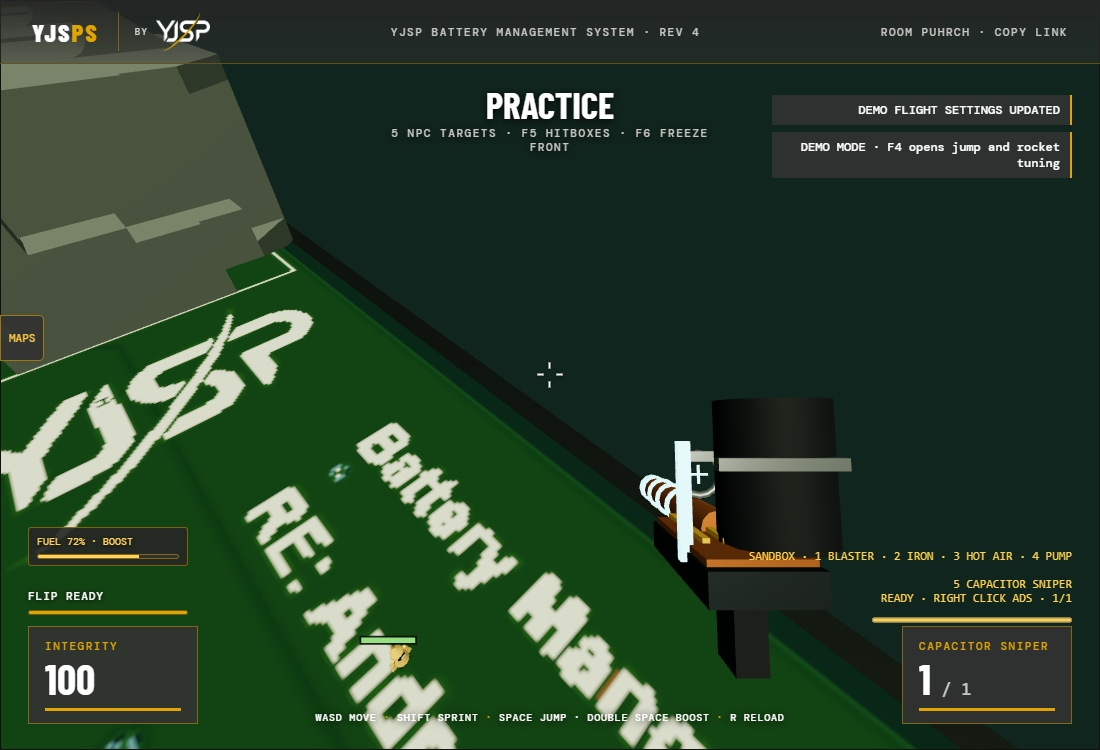
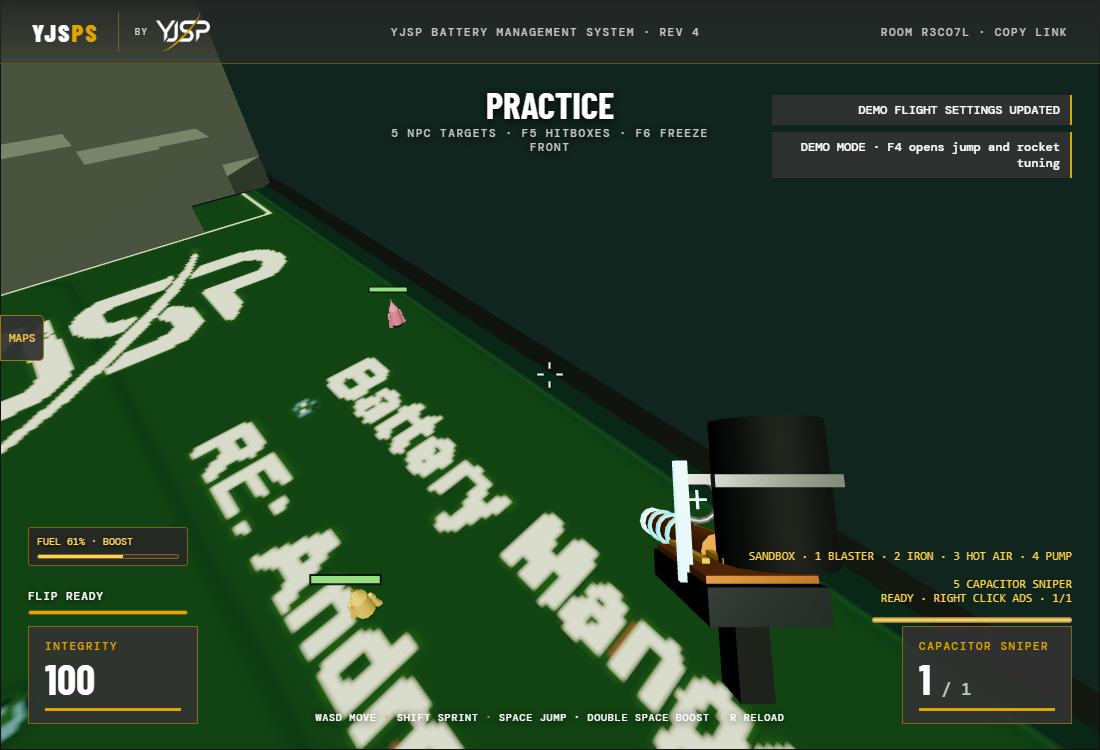
Use approved rocket flight tuning as branch defaults

diff --git a/tests/jetpack-server.test.ts b/tests/jetpack-server.test.ts
@@ -15,7 +15,7 @@ it('synchronizes two flying players, ignores forged fuel, permits combat, and fa
     const a=await client.create<MatchState>('pcb',options);rooms.push(a);a.onMessage('*',()=>{});
     const b=await client.joinById<MatchState>(a.roomId,options);rooms.push(b);b.onMessage('*',()=>{});
     await wait(()=>a.state.phase==='playing' && b.state.players?.size===2);
-    a.send('dev:flight',{...JETPACK,boostSeconds:12});await delay(100);expect(a.state.flightTuning.boostSeconds).toBe(2.5);
+    a.send('dev:flight',{...JETPACK,boostSeconds:12});await delay(100);expect(a.state.flightTuning.boostSeconds).toBe(JETPACK.boostSeconds);
     let predicted:Motion=initialMotion([0,0,0]);
     for(const seq of [1,2]) {
       const input={seq,forward:0,strafe:0,yaw:0,pitch:0,jump:seq===1,sprint:false};
@@ -28,14 +28,14 @@ it('synchronizes two flying players, ignores forged fuel, permits combat, and fa
     }
     await wait(()=>human(a).ack===62 && human(b).ack===62);
     expect(human(a).y).toBeGreaterThan(10);expect(human(b).y).toBeGreaterThan(10);
-    expect(human(a).fuel).toBeCloseTo(.6,5);expect(human(a).fuel).toBeCloseTo(predicted.fuel!,5);
+    expect(human(a).fuel).toBeCloseTo(1-JETPACK.fuelBurnRate/JETPACK.boostSeconds,5);expect(human(a).fuel).toBeCloseTo(predicted.fuel!,5);
     expect(human(a).y).toBeCloseTo(predicted.y,3);expect(human(a).x).toBeCloseTo(predicted.x,3);
     expect(b.state.players.get(a.sessionId)!.boosting).toBe(true);
     const pa=human(a),pb=human(b),yaw=Math.atan2(-(pb.x-pa.x),-(pb.z-pa.z));
     a.send('shoot',{shotId:1,seq:62,yaw,pitch:0});await wait(()=>human(b).hp===75);
     a.send('reload');await wait(()=>human(a).reloading);expect(human(a).grounded).toBe(false);
     a.send('input',{seq:63,forward:0,strafe:0,yaw:0,pitch:0,jump:'refill',sprint:false,fuel:1});
-    await delay(60);expect(human(a).ack).toBe(62);expect(human(a).fuel).toBeCloseTo(.6,5);
+    await delay(60);expect(human(a).ack).toBe(62);expect(human(a).fuel).toBeCloseTo(1-JETPACK.fuelBurnRate/JETPACK.boostSeconds,5);
     await wait(()=>human(a).grounded && !human(a).boosting,6000);
     expect(human(a).ack).toBe(62);expect(human(a).y).toBe(0);
     await wait(()=>human(a).fuel===1,4000);
@@ -72,8 +72,8 @@ it('synchronizes validated demo settings per room without resetting fuel',async(
     expect(b.state.flightTuning.rechargeSeconds).toBe(2);
     a.send('dev:flight',{...settings,boostSeconds:-1});await delay(100);expect(a.state.flightTuning.boostSeconds).toBe(5);
     for(let seq=1;seq<=62;seq++){a.send('input',{seq,forward:0,strafe:0,yaw:0,pitch:0,jump:seq!==2,sprint:false});await delay(17);}
-    await wait(()=>human(a).ack===62);expect(human(a).fuel).toBeCloseTo(.8,4);
+    await wait(()=>human(a).ack===62);expect(human(a).fuel).toBeCloseTo(1-JETPACK.fuelBurnRate/5,4);
     const separate=await client.create<MatchState>('practice',options);rooms.push(separate);separate.onMessage('*',()=>{});
-    await wait(()=>separate.state.players?.size===6);expect(separate.state.flightTuning.boostSeconds).toBe(2.5);
+    await wait(()=>separate.state.players?.size===6);expect(separate.state.flightTuning.boostSeconds).toBe(JETPACK.boostSeconds);
   }finally{for(const room of rooms)try{await room.leave();}catch{}server.kill();}
 },15000);

diff --git a/tests/jetpack.test.ts b/tests/jetpack.test.ts
@@ -5,13 +5,13 @@ function launched() {return stepMotion(stepMotion(initialMotion([0,0,0]),{...idl
 const empty={...testMap,boxes:[],width:500,depth:500};
 const idle:Input={seq:1,forward:0,strafe:0,yaw:0,pitch:0,jump:false,sprint:false};
 function advance(m:Motion,count:number,input=idle,map:MapData=empty) {for(let i=0;i<count;i++)m=stepMotion(m,input,map);return m;}
-it('accelerates while held, caps ascent, and exhausts fuel in 2.5 seconds',()=>{
+it('accelerates while held, caps ascent, and exhausts fuel at the configured capacity and burn rate',()=>{
   const launch=stepMotion(initialMotion([0,0,0]),{...idle,jump:true},empty);
   const released=stepMotion(launch,idle,empty);
   const next=stepMotion(released,{...idle,jump:true},empty);
   expect(next.vy).toBeGreaterThan(released.vy);expect(next.fuel).toBeLessThan(launch.fuel!);
-  const spent=advance(launched(),150,{...idle,jump:true});
-  expect(spent.y).toBeGreaterThan(30);expect(spent.fuel).toBe(0);expect(spent.boostLocked).toBe(true);
+  const spent=advance(launched(),Math.ceil(JETPACK.boostSeconds/JETPACK.fuelBurnRate/TICK),{...idle,jump:true});
+  expect(spent.y).toBeGreaterThan(12);expect(spent.fuel).toBe(0);expect(spent.boostLocked).toBe(true);
   expect(spent.vy).toBeLessThanOrEqual(PLAYER.sprintSpeed*JETPACK.ascentSprintRatio);
   const falling=advance(spent,120,{...idle,jump:true});expect(falling.boosting).toBe(false);expect(falling.vy).toBeLessThan(0);
 });
@@ -36,7 +36,7 @@ it('steers by yaw independently of pitch and limits sprint to the ground',()=>{
   const start={...initialMotion([0,10,0]),grounded:false};
   const flat=stepMotion(start,{...idle,forward:1,strafe:1,sprint:true},empty);
   const up=stepMotion(start,{...idle,forward:1,strafe:1,sprint:true,pitch:1.4},empty);
-  expect([flat.x,flat.z]).toEqual([up.x,up.z]);expect(Math.hypot(flat.x,flat.z)).toBeCloseTo(PLAYER.walkSpeed*TICK);
+  expect([flat.x,flat.z]).toEqual([up.x,up.z]);expect(Math.hypot(flat.x,flat.z)).toBeCloseTo(PLAYER.walkSpeed*JETPACK.airSpeedRatio*TICK);
   const turn=stepMotion(start,{...idle,forward:1,yaw:Math.PI/2},empty);expect(turn.x).toBeLessThan(0);expect(Math.abs(turn.z)).toBeLessThan(1e-6);
   const sprint=stepMotion(initialMotion([0,0,0]),{...idle,forward:1,sprint:true},empty);expect(Math.abs(sprint.z)).toBeCloseTo(PLAYER.sprintSpeed*TICK);
 });
@@ -87,5 +87,5 @@ it('validates every demo parameter and applies custom fuel capacity in the share
   for(const invalid of [{...settings,boostSeconds:0},{...settings,fuelBurnRate:0},{...settings,gravityRatio:Infinity},{boostSeconds:5}]) expect(validJetpackTuning(invalid)).toBeNull();
   let m=launched();
   for(let i=0;i<150;i++)m=stepMotion(m,{...idle,jump:true},empty,TICK,undefined,PLAYER,settings);
-  expect(m.fuel).toBeCloseTo(.5,5);expect(m.boosting).toBe(true);
+  expect(m.fuel).toBeCloseTo(1-150*TICK*JETPACK.fuelBurnRate/5,5);expect(m.boosting).toBe(true);
 });

diff --git a/tests/game.test.ts b/tests/game.test.ts
@@ -1,6 +1,6 @@
 import { describe, expect, it } from 'vitest';
 import fs from 'node:fs';
-import { aimRay, collisionCacheStats, COMBAT, hitscan, initialMotion, JUMP_HEIGHT_RATIO, PLAYER, rayBox, rayPlayer, samplePosition, stepMotion, testMap, TICK, tuningForHeight, validDevHeight, validShotInput, WEAPON, type Input, type Motion, type MapData, type PositionSample } from '../shared/game';
+import { aimRay, collisionCacheStats, COMBAT, hitscan, initialMotion, JETPACK, JUMP_HEIGHT_RATIO, PLAYER, rayBox, rayPlayer, samplePosition, stepMotion, testMap, TICK, tuningForHeight, validDevHeight, validShotInput, WEAPON, type Input, type Motion, type MapData, type PositionSample } from '../shared/game';
 
 const input: Input = { seq: 1, forward: 1, strafe: 0, yaw: 0, pitch: 0, jump: false, sprint: false };
 describe('movement', () => {
@@ -25,7 +25,9 @@ describe('movement', () => {
         motion = stepMotion(motion, { ...input, forward: 0, jump: tick === 0 }, empty, TICK, undefined, tuning);
         apex = Math.max(apex, motion.y);
       }
-      expect(apex).toBeCloseTo(JUMP_HEIGHT_RATIO * height, 1);
+      const gravity=tuning.gravity*JETPACK.gravityRatio;
+      const expectedApex=(tuning.jumpSpeed*JETPACK.jumpRatio-gravity*TICK/2)**2/(2*gravity);
+      expect(apex).toBeCloseTo(expectedApex, 1);
       expect(motion.grounded).toBe(true);
       expect(aimRay(0, 0, 0, 0, 0, tuning).origin[1]).toBeCloseTo(tuning.eye, 10);
       const aboveHead = { origin: [0, height + .1, 5] as [number, number, number], direction: [0, 0, -1] as [number, number, number] };
@@ -72,7 +74,7 @@ describe('movement', () => {
     let m: Motion = { ...initialMotion([0, 0, 0]), fuel: 0 };
     let climbed = false;
     for (let i = 0; i < 100; i++) {
-      m = stepMotion(m, { ...input, forward: i < 25 ? 1 : 0, jump: true }, map);
+      m = stepMotion(m, { ...input, forward: i < 35 ? 1 : 0, jump: true }, map);
       if (m.y >= 4.25) climbed = true;
     }
     expect(climbed).toBe(true);

diff --git a/tools/flight-browser.ts b/tools/flight-browser.ts
@@ -3,7 +3,7 @@ import { Client, type Room } from '@colyseus/sdk';
 import { spawn } from 'node:child_process';
 import { setTimeout as delay } from 'node:timers/promises';
 import fs from 'node:fs';
-import { MOVEMENT_PROTOCOL } from '../shared/game.js';
+import { JETPACK, MOVEMENT_PROTOCOL } from '../shared/game.js';
 import type { MatchState } from '../server/state.js';
 const port=26721, fixturePort=26722, base=`http://localhost:${port}`;
 const server=spawn(process.execPath,['dist-server/main.js'],{env:{...process.env,PORT:String(port),PCB_DEV_SCALE:'1'},stdio:'ignore'});
@@ -26,7 +26,7 @@ try {
   await page.locator('#map-options button[data-map-id="recovery"]').click();
   await page.waitForFunction(()=>{const p=(window as any).__pcbPerf();return p.mapId==='recovery' && p.flightTuning.boostSeconds===5;});
   await page.keyboard.press('F4');
-  await page.locator('#flight-reset').click();await page.waitForFunction(()=>(window as any).__pcbPerf().flightTuning.boostSeconds===2.5);
+  await page.locator('#flight-reset').click();await page.waitForFunction(expected=>(window as any).__pcbPerf().flightTuning.boostSeconds===expected,JETPACK.boostSeconds);
   await page.locator('#scale-resume').click();await page.keyboard.press('KeyM');await page.locator('#map-options button[data-map-id="bms"]').click();
   await page.waitForFunction(()=>(window as any).__pcbPerf().mapId==='bms');
   for(const id of ['bms','recovery','flight-sam']) {

diff --git a/shared/game.ts b/shared/game.ts
@@ -1,7 +1,7 @@
 export const TICK = 1 / 60;
 // Flight fuel and thrust state must agree between prediction and the server.
 export const MOVEMENT_PROTOCOL = 10;
-export const JETPACK = { boostSeconds: 2.5, rechargeSeconds: 3, thrustGravityRatio: 1.8, ascentSprintRatio: 1.5, fallSprintRatio: 2.25, inputLeaseSeconds: .25, fuelEpsilon: 1e-6, fuelBurnRate: 1, airSpeedRatio: 1, gravityRatio: 1, jumpRatio: 1 } as const;
+export const JETPACK = { boostSeconds: 1.5, rechargeSeconds: 3, thrustGravityRatio: 1.7, ascentSprintRatio: 1.5, fallSprintRatio: 2, inputLeaseSeconds: .25, fuelEpsilon: 1e-6, fuelBurnRate: 1.1, airSpeedRatio: .85, gravityRatio: 1, jumpRatio: 1.05 } as const;
 export const FLIGHT_CONTROLS = [
   {key:'boostSeconds',label:'Fuel capacity',min:.25,max:15,step:.25,unit:'s'},
   {key:'fuelBurnRate',label:'Fuel consumption',min:.1,max:3,step:.05,unit:'×'},

diff --git a/docs/rocket-jetpack-flight.md b/docs/rocket-jetpack-flight.md
@@ -10,16 +10,16 @@ All parameters are centralized in `JETPACK` in `shared/game.ts`:
 
 | Parameter | Value at the default 0.90 mm player scale |
 | --- | --- |
-| Continuous fuel | 2.5 seconds |
+| Fuel capacity / consumption | 1.5 engine-seconds / 1.1× burn (about 1.36 seconds continuous thrust) |
 | Empty-to-full grounded recharge | 3 seconds |
 | Gravity | 30 mm/s² (unchanged) |
-| Engine acceleration | 54 mm/s² (1.8 × gravity; net +24 mm/s²) |
+| Engine acceleration | 51 mm/s² (1.7 × gravity; net +21 mm/s²) |
 | Maximum ascent | 15 mm/s (1.5 × ground sprint speed) |
-| Terminal descent | 22.5 mm/s (2.25 × ground sprint speed) |
-| Horizontal flight speed | 7 mm/s, normalized diagonal input |
+| Terminal descent | 20 mm/s (2 × ground sprint speed) |
+| Horizontal flight speed | 5.95 mm/s (0.85 × walk speed), normalized diagonal input |
 | Input safety lease | 250 ms before missing inputs become neutral physics |
 
-The first jump uses the existing impulse without any rocket acceleration. Airborne engine activation/release adds/removes acceleration without resetting momentum. Speed limits scale with the existing player tuning. Lowering the engine ascent cap does not instantly discard an existing faster normal-jump impulse. A full rocket launch reaches roughly 35 mm before fuel runs out at the default scale, enough to reach tall board components.
+The first jump uses the existing impulse without any rocket acceleration. Airborne engine activation/release adds/removes acceleration without resetting momentum. Speed limits scale with the existing player tuning. Lowering the engine ascent cap does not instantly discard an existing faster normal-jump impulse. The accepted preset also uses a 1.05× normal jump impulse; all nine tuning values are the branch defaults and the Reset Flight preset. Existing saved browser settings remain explicit overrides until Reset Flight is used.
 
 ## Demo tuning (F4)
 
@@ -27,7 +27,7 @@ In demo/development mode (`npm run dev:scale`, or `PCB_DEV_SCALE=1` on a non-pro
 
 Settings are validated on the server and replicated to everyone in that room, including the local prediction solver. They cannot be changed on ordinary servers. Adjustments preserve remaining fuel and velocity, clear obsolete pending inputs, and affect only the current room. Settings save automatically in this browser and reapply when switching practice boards or reconnecting. **Reset Flight** restores defaults; **Copy Settings** copies the confirmed tuning as JSON. Network safety leases, collision tolerances, and numerical epsilon remain fixed internal safeguards.
 
-Fuel capacity is measured in engine-seconds at 1× burn. Actual continuous boost time is `capacity / burn rate`. Default normal-jump strength and gravity are 1×, preserving normal jumping. Demo gravity/jump sliders deliberately allow testing alternatives. Close the panel and click the game to resume.
+Fuel capacity is measured in engine-seconds at 1× burn. Actual continuous boost time is `capacity / burn rate`. Default jump strength is 1.05× and gravity is 1×; the first press still uses only the normal jump impulse, without engine thrust. Demo gravity/jump sliders deliberately allow testing alternatives. Close the panel and click the game to resume.
 
 ## State, collision, and transitions
 
@@ -56,7 +56,7 @@ Every exhaust instance disposes its geometries/materials on removal or map chang
 
 Controller tests cover fuel timing, release momentum, gravity and velocity limits, grounded-only recharge, exhaustion lockout, yaw/pitch separation, ground sprint, ceiling/substrate collision, flip fuel preservation, and landings on real components on both sides of all three boards. Network tests cover two simultaneous fliers, prediction parity, observer boosting state, forged fuel rejection, missing-input falling, airborne shooting/reloading, all weapon selections, and airborne sniper ADS/recharge initiation.
 
-Browser verification exercises fuel depletion, natural landing, full recharge, shooting and weapon selection on all three PCB maps, plus a second client's visible exhaust. Screenshots were inspected. Final verification: all 160 tests pass in 21 files; TypeScript and the production build pass. Browser checks pass on all three maps with no page errors, including observer exhaust. Vite's existing client bundle-size advisory remains.
+Browser verification exercises fuel depletion, natural landing, full recharge, shooting and weapon selection on all three PCB maps, plus a second client's visible exhaust. Screenshots were inspected. Verification: the full 160-test suite passed before the accepted preset update. With the accepted preset, all 38 focused movement/network tests pass, as do TypeScript and the production build. Browser checks pass on all three maps with no page errors, including observer exhaust and Reset Flight. Vite's existing client bundle-size advisory remains.
 
 Recommended local checks:
 

diff --git a/README.md b/README.md
@@ -12,7 +12,7 @@ Browser first-person deathmatch on real YJSP BMS, Recovery, and Vespula Flight S
 
 The repository includes all three source assemblies and generated maps. New multiplayer rooms select one of the three boards with equal probability, and keep that map through joins, reconnections, and round resets. The prototype map remains available as a fallback when no generated map is present.
 
-On the `feature/rocket-jetpack-flight` test branch, press **Space** for a normal jump, release, then **press and hold Space again** for fuel-limited rocket thrust and steer with **WASD**. Fuel lasts **2.5 seconds** and recharges over **3 seconds only while grounded**. Holding the first Space press never boosts. After emptying the tank, release Space to rearm. In demo mode, **F4** opens live sliders for fuel, recharge, thrust, speed caps, gravity, jump strength, and air steering; settings save in this browser. Shift sprints on the ground; combat remains available in flight. See [flight tuning and manual checks](docs/rocket-jetpack-flight.md).
+On the `feature/rocket-jetpack-flight` test branch, press **Space** for a normal jump, release, then **press and hold Space again** for fuel-limited rocket thrust and steer with **WASD**. Fuel capacity is **1.5 seconds** at a **1.1× burn rate** (about **1.36 seconds** of continuous thrust) and recharges over **3 seconds only while grounded**. Holding the first Space press never boosts. After emptying the tank, release Space to rearm. In demo mode, **F4** opens live sliders for fuel, recharge, thrust, speed caps, gravity, jump strength, and air steering; settings save in this browser. Shift sprints on the ground; combat remains available in flight. See [flight tuning and manual checks](docs/rocket-jetpack-flight.md).
 
 ## 1. Install prerequisites
 
